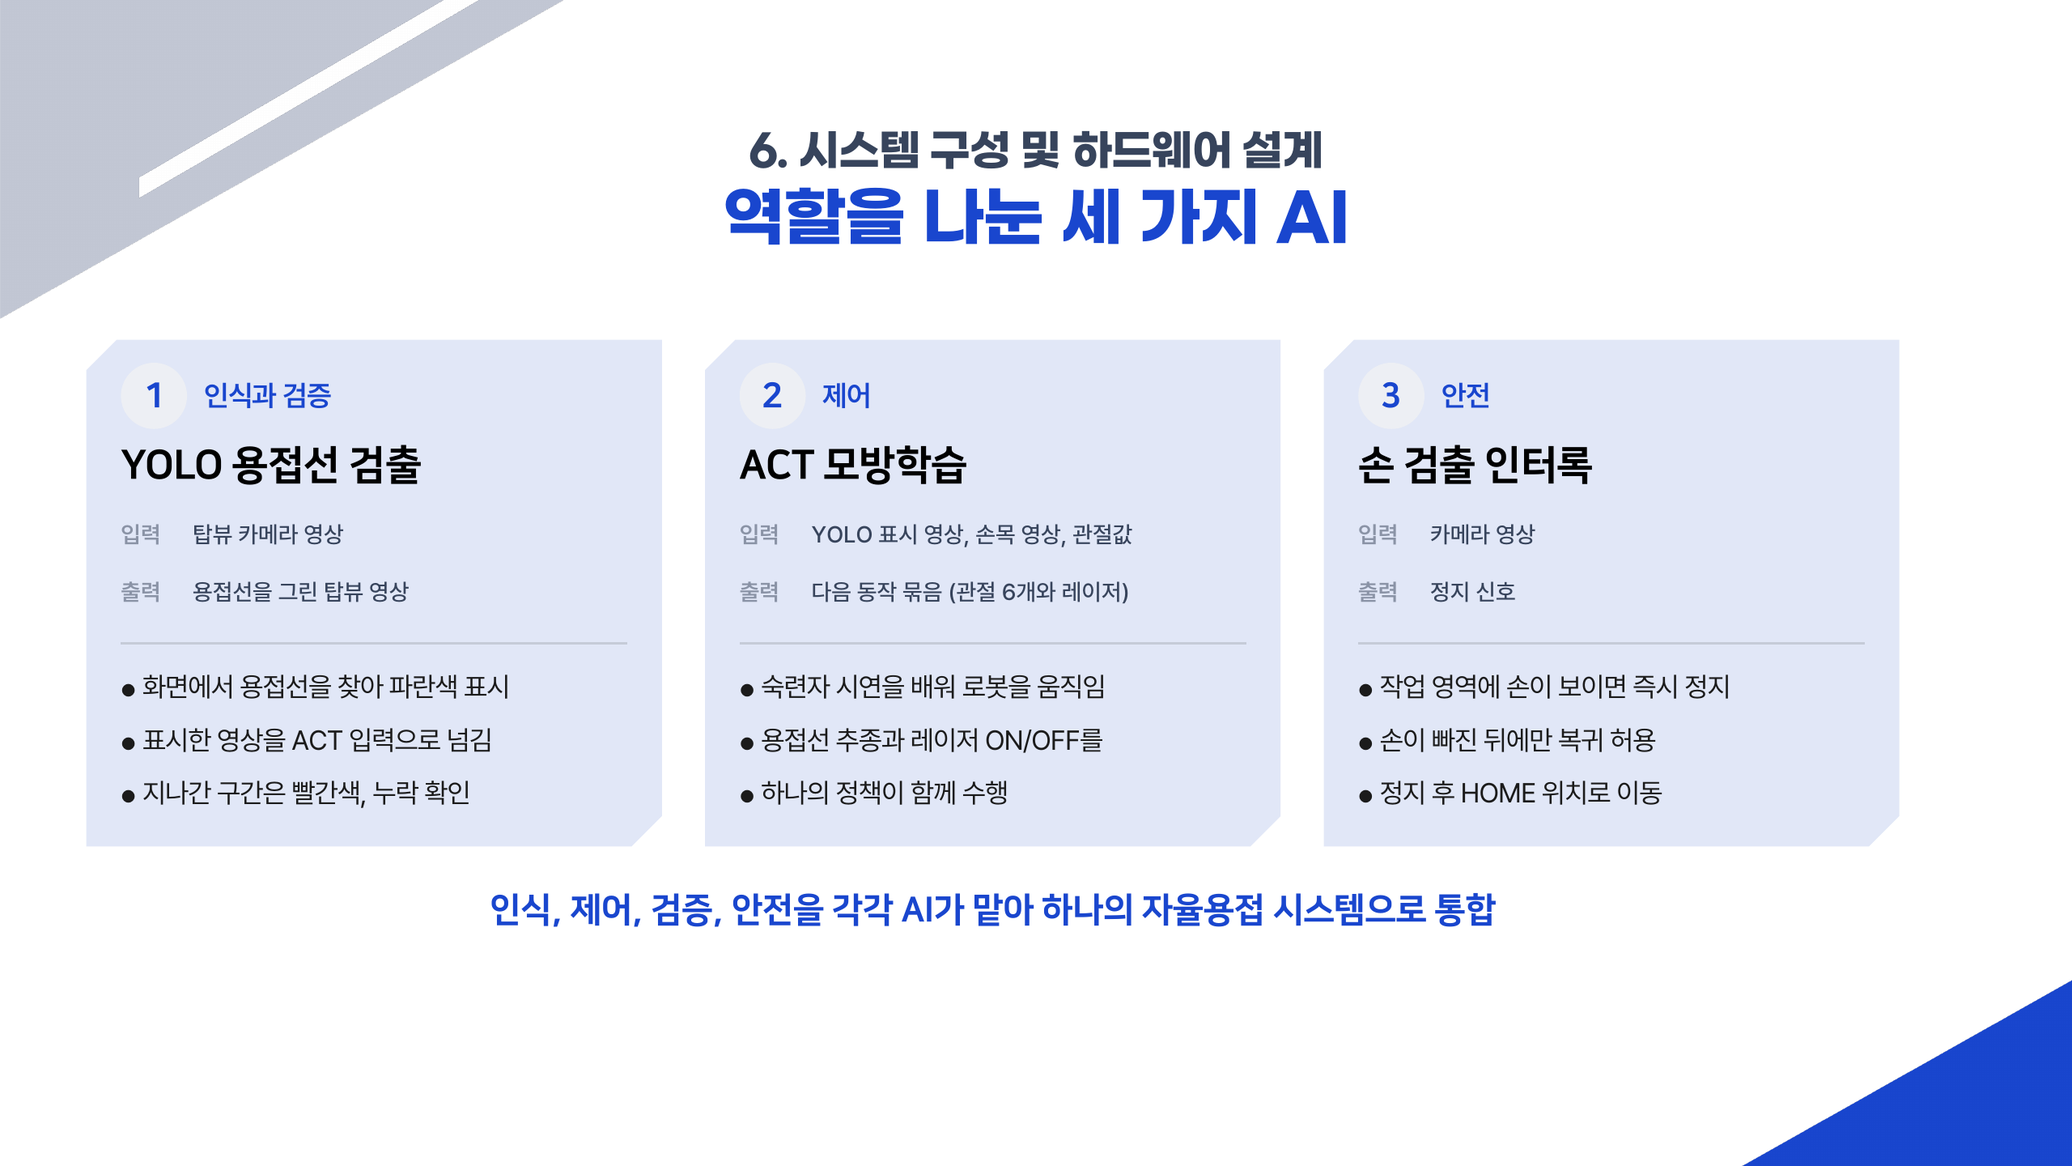
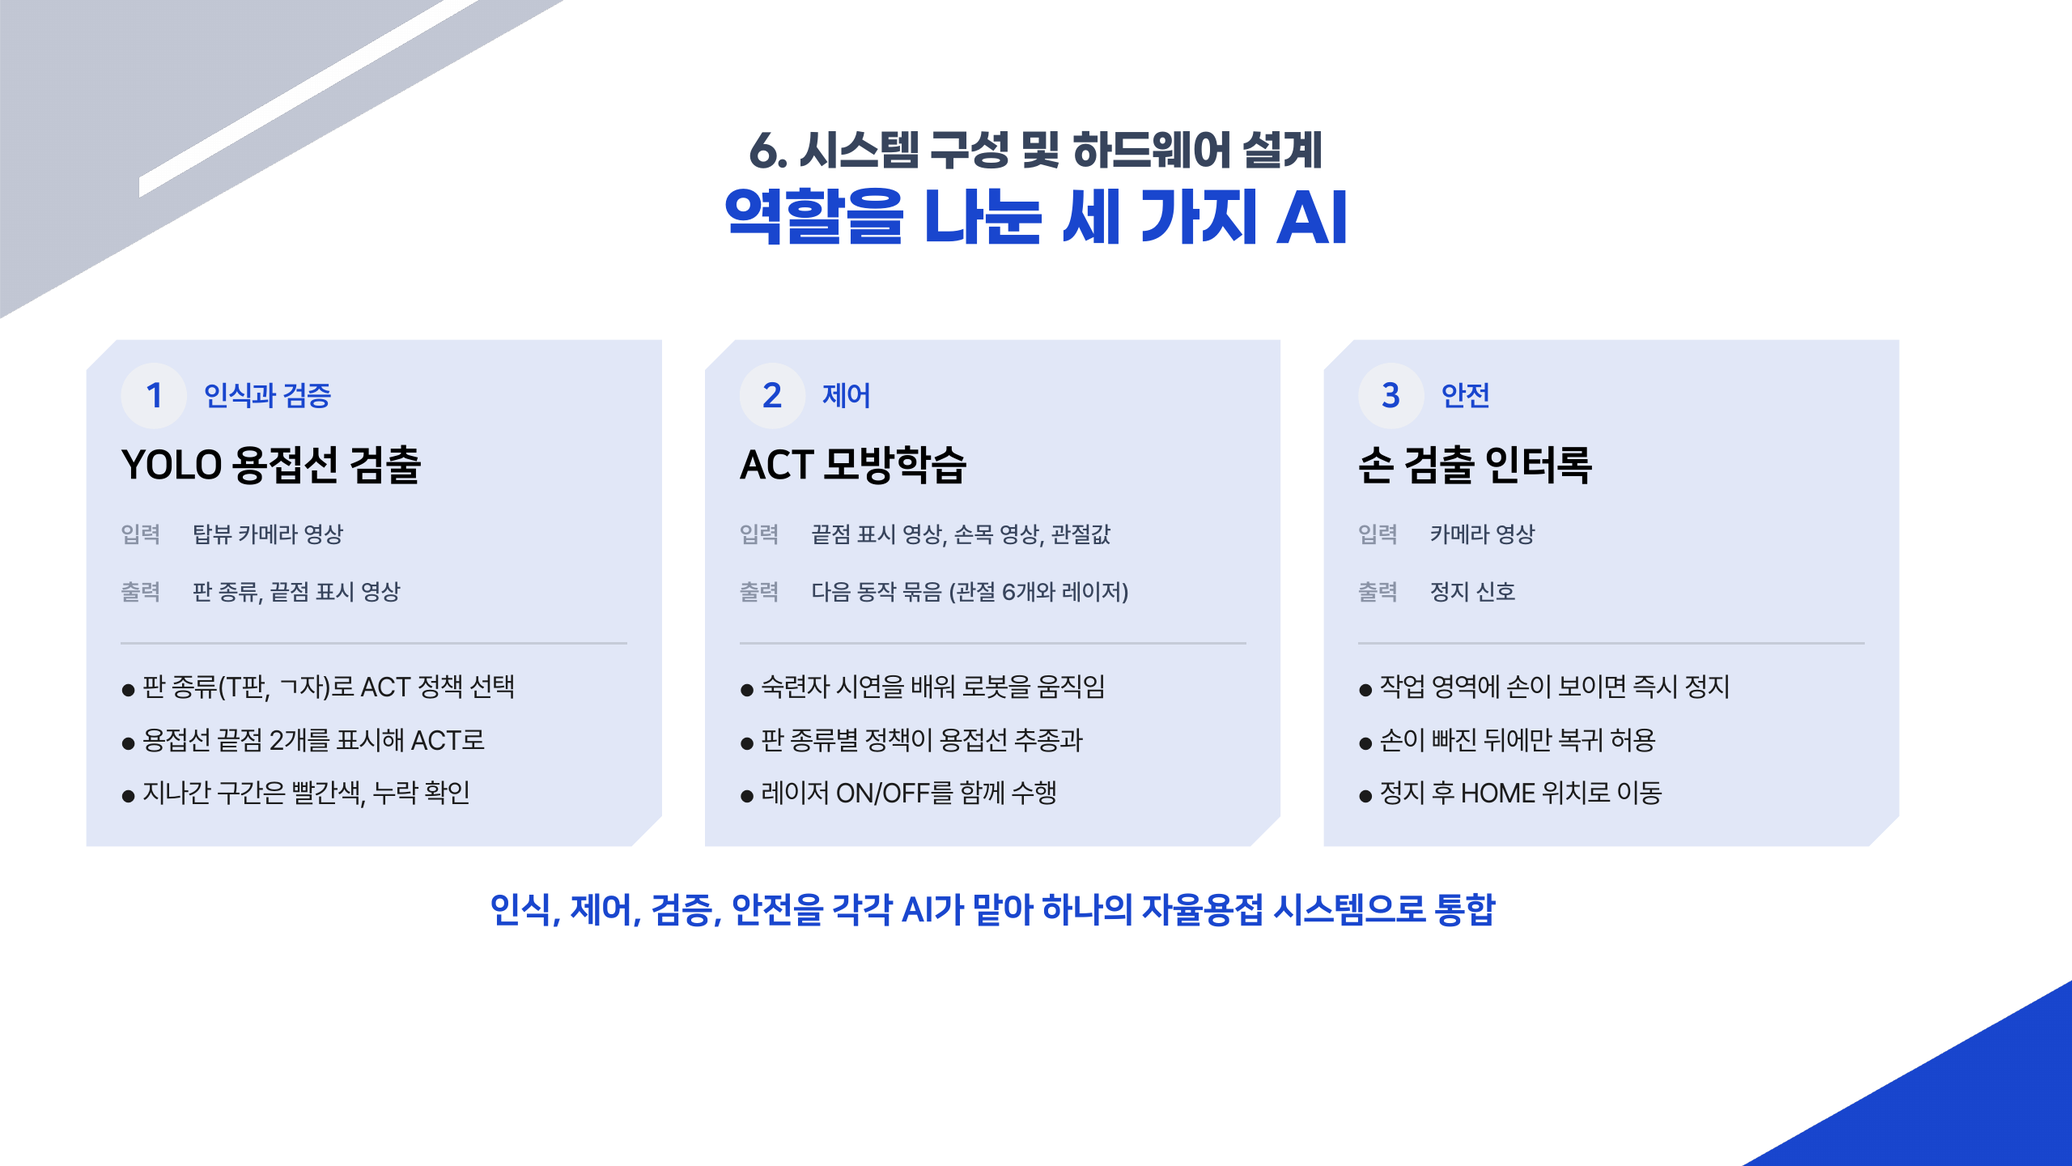
구성도를 팀 코드와 실제 서비스에 맞게 수정
- 웹 대시보드: Flask가 아니라 FastAPI (지금 도는 화면은 모두 FastAPI)
- 영상 입력: OpenCV 프레임이 아니라 V4L2로 직접 캡처해 ZMQ로 배포
- YOLO: 판 종류(T판, ㄱ자)를 판정해 ACT 정책을 고르고 용접선 끝점 2개를 표시.
  ACT로 가는 화살표는 '끝점 표시 영상 + 정책 선택'
8장, 9장, 소개 페이지 구성도와 설명을 같이 고침.

diff --git a/index.html b/index.html
@@ -49,52 +49,52 @@
 </head>
 <body>
 <main class="stage" id="stage">
-  <img class="slide" src="deck/final/01.png?v=11121211" alt="2026 IRC 지능로봇대회 매니퓰레이터 종목. 제조 디지털 전환(DX) 6축 자율용접 로봇. 손태산, 김광빈, 김동희, 왕혜영">
-  <img class="slide" src="deck/final/02.png?v=11121211" alt="목차" loading="lazy">
-  <img class="slide" src="deck/final/03.png?v=11121211" alt="1. 프로젝트 개요. 6축 자율용접 로봇. 왼쪽은 코너 시편의 용접선을 초록 레이저로 따라가는 로봇 사진" loading="lazy">
-  <img class="slide" src="deck/final/04.png?v=11121211" alt="2. 프로젝트 수행 배경: 숙련 기술의 단절과 기존 자동용접의 한계. 실내 철골 제작공장 자동용접 사진, 강교량 야외 건설현장 사진" loading="lazy">
-  <img class="slide" src="deck/final/05.png?v=11121211" alt="3. 프로젝트 수행 필요성: 숙련 기술의 계승과 비정형 환경 대응을 위한 자율용접 기술의 필요성" loading="lazy">
+  <img class="slide" src="deck/final/01.png?v=11130904" alt="2026 IRC 지능로봇대회 매니퓰레이터 종목. 제조 디지털 전환(DX) 6축 자율용접 로봇. 손태산, 김광빈, 김동희, 왕혜영">
+  <img class="slide" src="deck/final/02.png?v=11130904" alt="목차" loading="lazy">
+  <img class="slide" src="deck/final/03.png?v=11130904" alt="1. 프로젝트 개요. 6축 자율용접 로봇. 왼쪽은 코너 시편의 용접선을 초록 레이저로 따라가는 로봇 사진" loading="lazy">
+  <img class="slide" src="deck/final/04.png?v=11130904" alt="2. 프로젝트 수행 배경: 숙련 기술의 단절과 기존 자동용접의 한계. 실내 철골 제작공장 자동용접 사진, 강교량 야외 건설현장 사진" loading="lazy">
+  <img class="slide" src="deck/final/05.png?v=11130904" alt="3. 프로젝트 수행 필요성: 숙련 기술의 계승과 비정형 환경 대응을 위한 자율용접 기술의 필요성" loading="lazy">
   <div class="slide">
-    <img src="deck/final/06.png?v=11121211" alt="4. 개발 목표 및 차별성: 룰 베이스를 넘어 숙련 행동 학습으로. OPTi3 용접로봇 전시 시연과 실제 아크 용접 영상, 기존 룰 베이스와 본 프로젝트 비교, 최종 개발 목표" loading="lazy">
+    <img src="deck/final/06.png?v=11130904" alt="4. 개발 목표 및 차별성: 룰 베이스를 넘어 숙련 행동 학습으로. OPTi3 용접로봇 전시 시연과 실제 아크 용접 영상, 기존 룰 베이스와 본 프로젝트 비교, 최종 개발 목표" loading="lazy">
     <!-- PPT 6장 영상 자리(x 60/468, y 270, 392×294pt / 1440×810pt)에 맞춰 올린 6초~20초 구간 GIF -->
-    <img class="clip" style="left:4.1667%; top:33.333%; width:27.222%; height:36.296%;" src="deck/img/opti3_demo.gif?v=11121211" alt="OPTi3 전시 시연 6초에서 20초 구간" loading="lazy">
-    <img class="clip" style="left:32.5%; top:33.333%; width:27.222%; height:36.296%;" src="deck/img/opti3_arc.gif?v=11121211" alt="OPTi3 실제 아크 용접 6초에서 20초 구간" loading="lazy">
+    <img class="clip" style="left:4.1667%; top:33.333%; width:27.222%; height:36.296%;" src="deck/img/opti3_demo.gif?v=11130904" alt="OPTi3 전시 시연 6초에서 20초 구간" loading="lazy">
+    <img class="clip" style="left:32.5%; top:33.333%; width:27.222%; height:36.296%;" src="deck/img/opti3_arc.gif?v=11130904" alt="OPTi3 실제 아크 용접 6초에서 20초 구간" loading="lazy">
   </div>
-  <img class="slide" src="deck/final/07.png?v=11121211" alt="5. 개발 대상 및 자율 작업 시나리오: 수평 접합선에 대응하는 자율용접 작업 구현. 3면 직각 시편과 T형 필릿 시편" loading="lazy">
-  <img class="slide" src="deck/final/08.png?v=11121211" alt="6. 시스템 구성 및 하드웨어 설계: 자율용접 로봇 시스템 아키텍처. 탑뷰 영상에 YOLO가 용접선을 그려 넣고, 그 영상과 손목 영상으로 ACT 정책이 다음 동작을 냄. 손 검출 시 정지, 진행 표시와 영상은 Flask 웹 대시보드로" loading="lazy">
-  <img class="slide" src="deck/final/09.png?v=11121211" alt="6. 시스템 구성 및 하드웨어 설계: 역할을 나눈 세 가지 AI. YOLO 용접선 검출(인식과 검증, 표시한 영상을 ACT로), ACT 모방학습(제어), 손 검출 인터록(안전)" loading="lazy">
-  <img class="slide" src="deck/final/10.png?v=11121211" alt="6. 시스템 구성 및 하드웨어 설계: 하드웨어 설계. SolidWorks 조립 기반 6축 매니퓰레이터와 레이저 엔드이펙터 렌더, 엔드이펙터 CAD, 매니퓰레이터, 엔드이펙터, 카메라, 개선 내용" loading="lazy">
-  <img class="slide" src="deck/final/11.png?v=11121211" alt="6. 시스템 구성 및 하드웨어 설계: 직접 개선한 기술. 엔드이펙터 설계 변천 v1, v2, v3, 최종 레이저 일체형" loading="lazy">
+  <img class="slide" src="deck/final/07.png?v=11130904" alt="5. 개발 대상 및 자율 작업 시나리오: 수평 접합선에 대응하는 자율용접 작업 구현. 3면 직각 시편과 T형 필릿 시편" loading="lazy">
+  <img class="slide" src="deck/final/08.png?v=11130904" alt="6. 시스템 구성 및 하드웨어 설계: 자율용접 로봇 시스템 아키텍처. 영상은 V4L2로 캡처해 ZMQ로 나눠 주고, YOLO가 판 종류를 판정해 ACT 정책을 고르며 용접선 끝점을 표시함. 그 영상과 손목 영상으로 ACT 정책이 다음 동작을 냄. 손 검출 시 정지, 진행 표시와 영상은 FastAPI 웹 대시보드로" loading="lazy">
+  <img class="slide" src="deck/final/09.png?v=11130904" alt="6. 시스템 구성 및 하드웨어 설계: 역할을 나눈 세 가지 AI. YOLO 용접선 검출(판 종류 판정과 정책 선택, 끝점 표시), ACT 모방학습(판 종류별 정책으로 제어), 손 검출 인터록(안전)" loading="lazy">
+  <img class="slide" src="deck/final/10.png?v=11130904" alt="6. 시스템 구성 및 하드웨어 설계: 하드웨어 설계. SolidWorks 조립 기반 6축 매니퓰레이터와 레이저 엔드이펙터 렌더, 엔드이펙터 CAD, 매니퓰레이터, 엔드이펙터, 카메라, 개선 내용" loading="lazy">
+  <img class="slide" src="deck/final/11.png?v=11130904" alt="6. 시스템 구성 및 하드웨어 설계: 직접 개선한 기술. 엔드이펙터 설계 변천 v1, v2, v3, 최종 레이저 일체형" loading="lazy">
   <div class="slide">
-    <img src="deck/final/12.png?v=11121211" alt="7. 실시간 작업 모니터링: 웹 대시보드로 보는 영상과 로봇 상태" loading="lazy">
+    <img src="deck/final/12.png?v=11130904" alt="7. 실시간 작업 모니터링: 웹 대시보드로 보는 영상과 로봇 상태" loading="lazy">
     <!-- PPT 12장 대시보드 카메라 칸에 올린 실제 화면 녹화 GIF(코너 시편, 3배속) -->
-    <img class="clip" style="left:4.7222%; top:35.0617%; width:25.9722%; height:25.9259%;" src="deck/img/corner_dash_top.gif?v=11121211" alt="상단 카메라 실제 화면. 코너 시편 용접선 두 개가 파란색에서 빨간색으로 바뀜, 3배속" loading="lazy">
-    <img class="clip" style="left:31.8056%; top:35.0617%; width:25.9722%; height:25.9259%;" src="deck/img/corner_dash_wrist.gif?v=11121211" alt="손목 카메라 실제 화면. 시편 위 초록 레이저 점, 3배속" loading="lazy">
+    <img class="clip" style="left:4.7222%; top:35.0617%; width:25.9722%; height:25.9259%;" src="deck/img/corner_dash_top.gif?v=11130904" alt="상단 카메라 실제 화면. 코너 시편 용접선 두 개가 파란색에서 빨간색으로 바뀜, 3배속" loading="lazy">
+    <img class="clip" style="left:31.8056%; top:35.0617%; width:25.9722%; height:25.9259%;" src="deck/img/corner_dash_wrist.gif?v=11130904" alt="손목 카메라 실제 화면. 시편 위 초록 레이저 점, 3배속" loading="lazy">
     <span class="camlabel" style="left:4.7222%; top:57.5309%; width:25.9722%; height:3.4568%;">상단 카메라<b>LIVE</b></span>
     <span class="camlabel" style="left:31.8056%; top:57.5309%; width:25.9722%; height:3.4568%;">손목 카메라<b>LIVE</b></span>
     <span class="tag" style="left:26.6667%; top:36.0494%; width:3.4722%; height:2.7160%;">3배속</span>
     <span class="tag" style="left:53.7500%; top:36.0494%; width:3.4722%; height:2.7160%;">3배속</span>
   </div>
   <div class="slide">
-    <img src="deck/final/13.png?v=11121211" alt="7. 실시간 작업 모니터링: YOLO 용접선 검출과 진행 표시, 성공 판정 기준" loading="lazy">
+    <img src="deck/final/13.png?v=11130904" alt="7. 실시간 작업 모니터링: YOLO 용접선 검출과 진행 표시, 성공 판정 기준" loading="lazy">
     <!-- PPT 13장 가운데 칸(진행 중)에 올린 2배속 GIF -->
-    <img class="clip" style="left:34.0278%; top:28.1481%; width:27.7778%; height:37.0370%;" src="deck/img/t_yolo_progress.gif?v=11121211" alt="T자 시편 상단 카메라 화면. 레이저가 지나간 구간의 용접선이 파란색에서 빨간색으로 바뀜, 2배속" loading="lazy">
+    <img class="clip" style="left:34.0278%; top:28.1481%; width:27.7778%; height:37.0370%;" src="deck/img/t_yolo_progress.gif?v=11130904" alt="T자 시편 상단 카메라 화면. 레이저가 지나간 구간의 용접선이 파란색에서 빨간색으로 바뀜, 2배속" loading="lazy">
     <span class="tag" style="left:57.7778%; top:29.1358%; width:3.4722%; height:2.7160%;">2배속</span>
   </div>
-  <img class="slide" src="deck/final/14.png?v=11121211" alt="7. 실시간 작업 모니터링: YOLO 추론 최적화로 2.1배 가속. PyTorch에서 ONNX, TensorRT FP16 변환, 1회 추론 시간 중앙값 8.1 ms에서 3.8 ms, 정확도 유지, ACT 정책 변환 예정" loading="lazy">
-  <img class="slide" src="deck/final/15.png?v=11121211" alt="8. ACT 기반 모방학습 및 자율 제어: 시연, 기록, ACT 학습, 자율 실행, ACT는 동작을 묶음으로 예측" loading="lazy">
+  <img class="slide" src="deck/final/14.png?v=11130904" alt="7. 실시간 작업 모니터링: YOLO 추론 최적화로 2.1배 가속. PyTorch에서 ONNX, TensorRT FP16 변환, 1회 추론 시간 중앙값 8.1 ms에서 3.8 ms, 정확도 유지, ACT 정책 변환 예정" loading="lazy">
+  <img class="slide" src="deck/final/15.png?v=11130904" alt="8. ACT 기반 모방학습 및 자율 제어: 시연, 기록, ACT 학습, 자율 실행, ACT는 동작을 묶음으로 예측" loading="lazy">
   <div class="slide">
-    <img src="deck/final/16.png?v=11121211" alt="9. 자율 용접 시연: 임의 배치 시편 자율용접 시연, 확인 항목 8개, 시연 시편(T자 필릿, 3면 직각)" loading="lazy">
+    <img src="deck/final/16.png?v=11130904" alt="9. 자율 용접 시연: 임의 배치 시편 자율용접 시연, 확인 항목 8개, 시연 시편(T자 필릿, 3면 직각)" loading="lazy">
     <!-- PPT 16장 시연 영상 자리(1440×810pt 기준)에 올린 2배속 GIF와 배속 표시 -->
-    <img class="clip" style="left:8.2509%; top:29.1358%; width:22.8602%; height:42.4691%;" src="deck/img/t_demo.gif?v=11121211" alt="T자 필릿 시편 자율용접 시연, 2배속" loading="lazy">
-    <img class="clip" style="left:32.7778%; top:29.1358%; width:22.8602%; height:42.4691%;" src="deck/img/corner_demo.gif?v=11121211" alt="3면 직각 코너 시편 자율용접 시연, 2배속" loading="lazy">
+    <img class="clip" style="left:8.2509%; top:29.1358%; width:22.8602%; height:42.4691%;" src="deck/img/t_demo.gif?v=11130904" alt="T자 필릿 시편 자율용접 시연, 2배속" loading="lazy">
+    <img class="clip" style="left:32.7778%; top:29.1358%; width:22.8602%; height:42.4691%;" src="deck/img/corner_demo.gif?v=11130904" alt="3면 직각 코너 시편 자율용접 시연, 2배속" loading="lazy">
     <span class="tag" style="left:27.0833%; top:30.1235%; width:3.4722%; height:2.7160%;">2배속</span>
     <span class="tag" style="left:51.6102%; top:30.1235%; width:3.4722%; height:2.7160%;">2배속</span>
   </div>
-  <img class="slide" src="deck/final/17.png?v=11121211" alt="9. 자율 용접 시연: 성공 판정 기준. 시편 인식, 시작점 접근, 토치 거리 유지, 레이저 ON, 용접선 추종, 종료점 도달, 레이저 OFF, 원위치 복귀의 8개 항목을 모두 통과해야 성공. 용접선 추종은 경로 이탈 5mm 이하와 용접선의 90% 이상이 빨간색으로 바뀌는 것" loading="lazy">
-  <img class="slide" src="deck/final/18.png?v=11121211" alt="9. 자율 용접 시연: 시연 결과. 학습한 배치 40회 중 39회(97.5%), 처음 보는 배치 40회 중 37회(92.5%) 성공. 성공 기준은 8개 판정 항목을 모두 통과한 시도. 인터록 반응 시간 최대 약 100 ms(계산값)" loading="lazy">
-  <img class="slide" src="deck/final/19.png?v=11121211" alt="10. 결론 및 향후 과제" loading="lazy">
-  <img class="slide" src="deck/final/20.png?v=11121211" alt="10. 결론 및 향후 과제: 한계점과 향후 과제, 홈페이지 QR 코드" loading="lazy">
+  <img class="slide" src="deck/final/17.png?v=11130904" alt="9. 자율 용접 시연: 성공 판정 기준. 시편 인식, 시작점 접근, 토치 거리 유지, 레이저 ON, 용접선 추종, 종료점 도달, 레이저 OFF, 원위치 복귀의 8개 항목을 모두 통과해야 성공. 용접선 추종은 경로 이탈 5mm 이하와 용접선의 90% 이상이 빨간색으로 바뀌는 것" loading="lazy">
+  <img class="slide" src="deck/final/18.png?v=11130904" alt="9. 자율 용접 시연: 시연 결과. 학습한 배치 40회 중 39회(97.5%), 처음 보는 배치 40회 중 37회(92.5%) 성공. 성공 기준은 8개 판정 항목을 모두 통과한 시도. 인터록 반응 시간 최대 약 100 ms(계산값)" loading="lazy">
+  <img class="slide" src="deck/final/19.png?v=11130904" alt="10. 결론 및 향후 과제" loading="lazy">
+  <img class="slide" src="deck/final/20.png?v=11130904" alt="10. 결론 및 향후 과제: 한계점과 향후 과제, 홈페이지 QR 코드" loading="lazy">
 </main>
 
 <div class="bar">

diff --git a/project.html b/project.html
@@ -99,7 +99,7 @@
   <h2><small>01</small>무엇을 만들었나</h2>
   <div class="two">
     <figure>
-      <img class="tall" src="project/img/robot_corner_laser.jpg?v=11121211" alt="자체 제작 6축 로봇이 코너 시편의 용접선을 초록 레이저로 따라가는 장면" loading="lazy">
+      <img class="tall" src="project/img/robot_corner_laser.jpg?v=11130904" alt="자체 제작 6축 로봇이 코너 시편의 용접선을 초록 레이저로 따라가는 장면" loading="lazy">
       <figcaption>코너 시편의 용접선을 레이저로 따라가는 자체 제작 6축 로봇</figcaption>
     </figure>
     <div>
@@ -123,15 +123,15 @@
 <section id="system">
   <h2><small>02</small>시스템 구성</h2>
   <figure>
-    <img src="project/img/architecture.png?v=11121211" alt="시스템 구성도. 상단 카메라 영상에 YOLO가 용접선을 그려 넣고, 그 영상과 손목 카메라 영상이 ACT 정책으로 들어감. 정책의 목표 관절값이 서보 제어를 거쳐 6축 매니퓰레이터와 엔드이펙터로 전달됨. 손 검출 시 정지, 진행 표시와 영상은 웹 대시보드로 전송" loading="lazy">
+    <img src="project/img/architecture.png?v=11130904" alt="시스템 구성도. 카메라 영상은 V4L2로 캡처해 ZMQ로 나눠 줌. YOLO가 판 종류를 판정해 ACT 정책을 고르고 용접선 끝점을 표시하며, 그 영상과 손목 카메라 영상이 ACT 정책으로 들어감. 정책의 목표 관절값이 서보 제어를 거쳐 6축 매니퓰레이터와 엔드이펙터로 전달됨. 손 검출 시 정지, 진행 표시와 영상은 FastAPI 웹 대시보드로 전송" loading="lazy">
   </figure>
   <ul class="plain">
-    <li>카메라 2대(상단, 손목) 영상이 USB로 로컬 PC에 들어옵니다.</li>
-    <li>YOLO가 상단 카메라 영상에서 용접선을 찾아 영상에 그려 넣습니다.</li>
-    <li>ACT 정책이 이 표시 영상과 손목 영상, 현재 관절 위치 q를 받아 다음 목표 관절값 q*를 냅니다.</li>
+    <li>카메라 2대(상단, 손목) 영상을 V4L2로 직접 캡처해 ZMQ로 여러 프로세스에 나눠 줍니다.</li>
+    <li>YOLO가 상단 카메라 영상에서 판 종류(T판, ㄱ자)를 판정해 쓸 ACT 정책을 고르고, 용접선의 시작점과 끝점을 표시합니다.</li>
+    <li>판 종류에 맞는 ACT 정책이 끝점 표시 영상과 손목 영상, 현재 관절 위치 q를 받아 다음 목표 관절값 q*를 냅니다.</li>
     <li>서보 제어부가 USB 시리얼(TTL)로 명령을 보내고 현재 위치를 다시 읽습니다.</li>
     <li>작업 영역에서 손이 검출되면 정지하고, 손이 빠진 뒤 복귀를 허용합니다.</li>
-    <li>Flask 웹 서비스로 여러 PC의 브라우저에서 영상과 상태를 봅니다.</li>
+    <li>FastAPI 웹 대시보드로 여러 PC의 브라우저에서 영상과 상태를 봅니다.</li>
   </ul>
 </section>
 
@@ -154,7 +154,7 @@
   <h3>엔드이펙터 출력 파일</h3>
   <div class="two">
     <figure>
-      <img src="project/img/ee_cad.png?v=11121211" alt="최종 레이저 일체형 엔드이펙터 CAD. 서보와 본체, 레이저 포인터를 잡는 집게와 브래킷" loading="lazy">
+      <img src="project/img/ee_cad.png?v=11130904" alt="최종 레이저 일체형 엔드이펙터 CAD. 서보와 본체, 레이저 포인터를 잡는 집게와 브래킷" loading="lazy">
       <figcaption>최종 레이저 일체형 엔드이펙터</figcaption>
     </figure>
     <div>
@@ -178,7 +178,7 @@
   <h2><small>04</small>엔드이펙터 개선 과정</h2>
   <div class="two">
     <figure>
-      <img src="project/img/ee_torch_old.jpg?v=11121211" alt="1차 설계인 OPTi3 축소 토치형 엔드이펙터 CAD. 토치 옆에 레이저와 서보가 달려 있음" loading="lazy">
+      <img src="project/img/ee_torch_old.jpg?v=11130904" alt="1차 설계인 OPTi3 축소 토치형 엔드이펙터 CAD. 토치 옆에 레이저와 서보가 달려 있음" loading="lazy">
       <figcaption>1차 설계: OPTi3 축소 토치형 (토치 단축, 레이저 후퇴 적용 후)</figcaption>
     </figure>
     <div>
